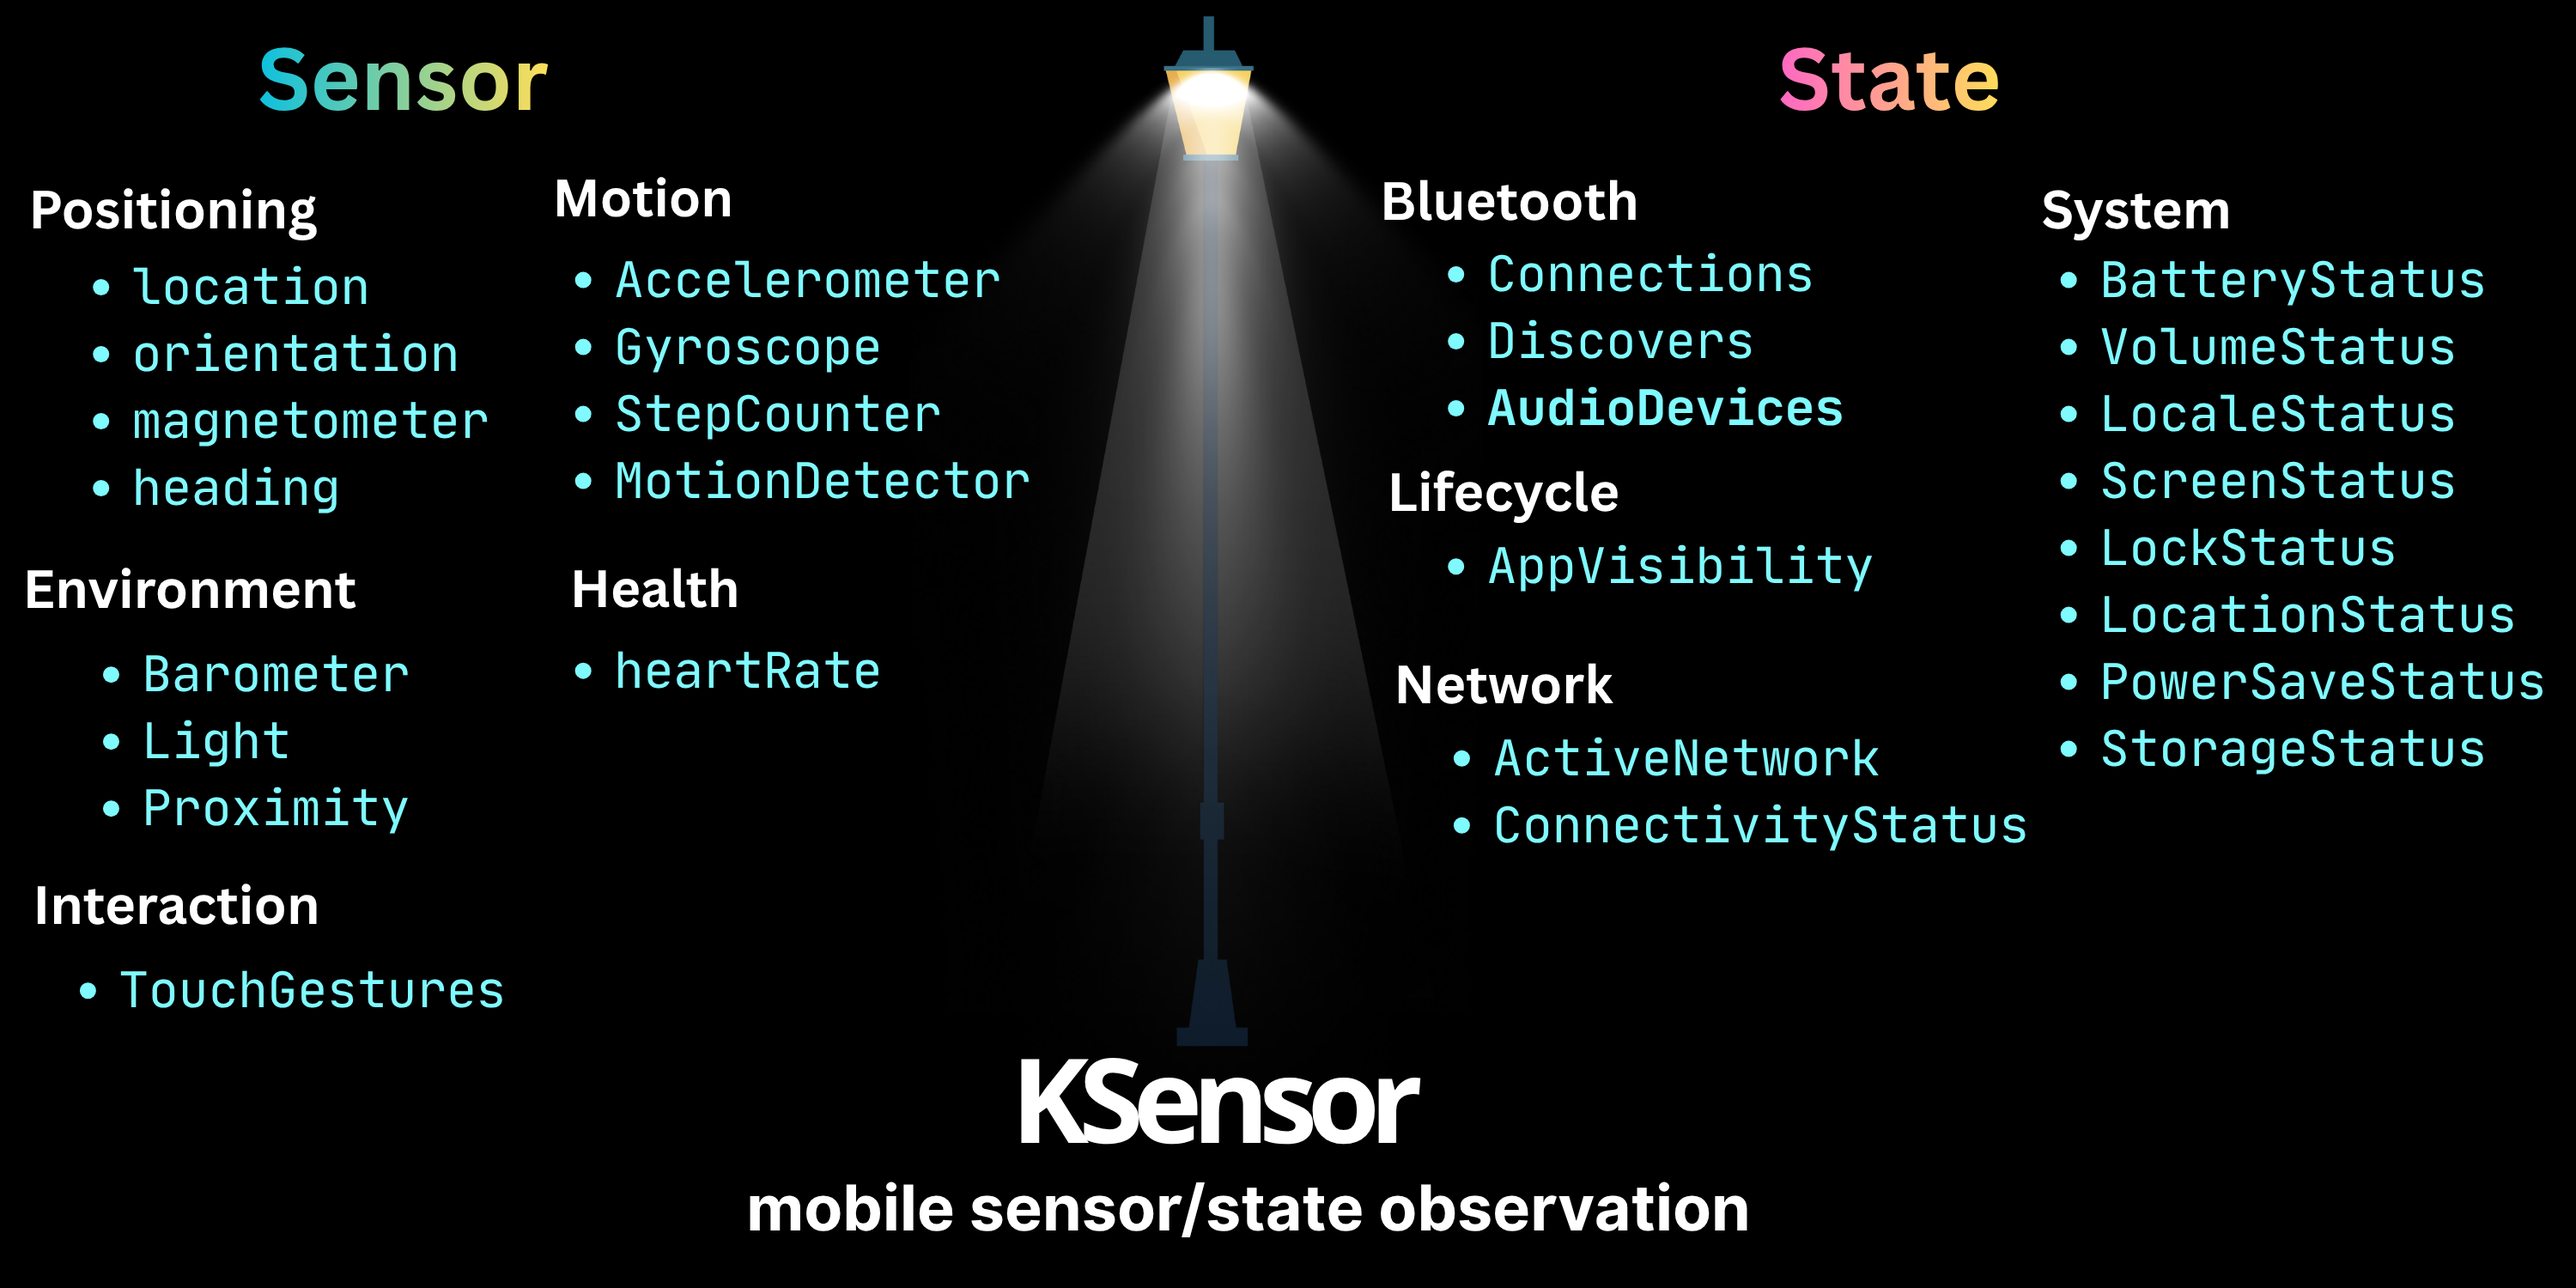
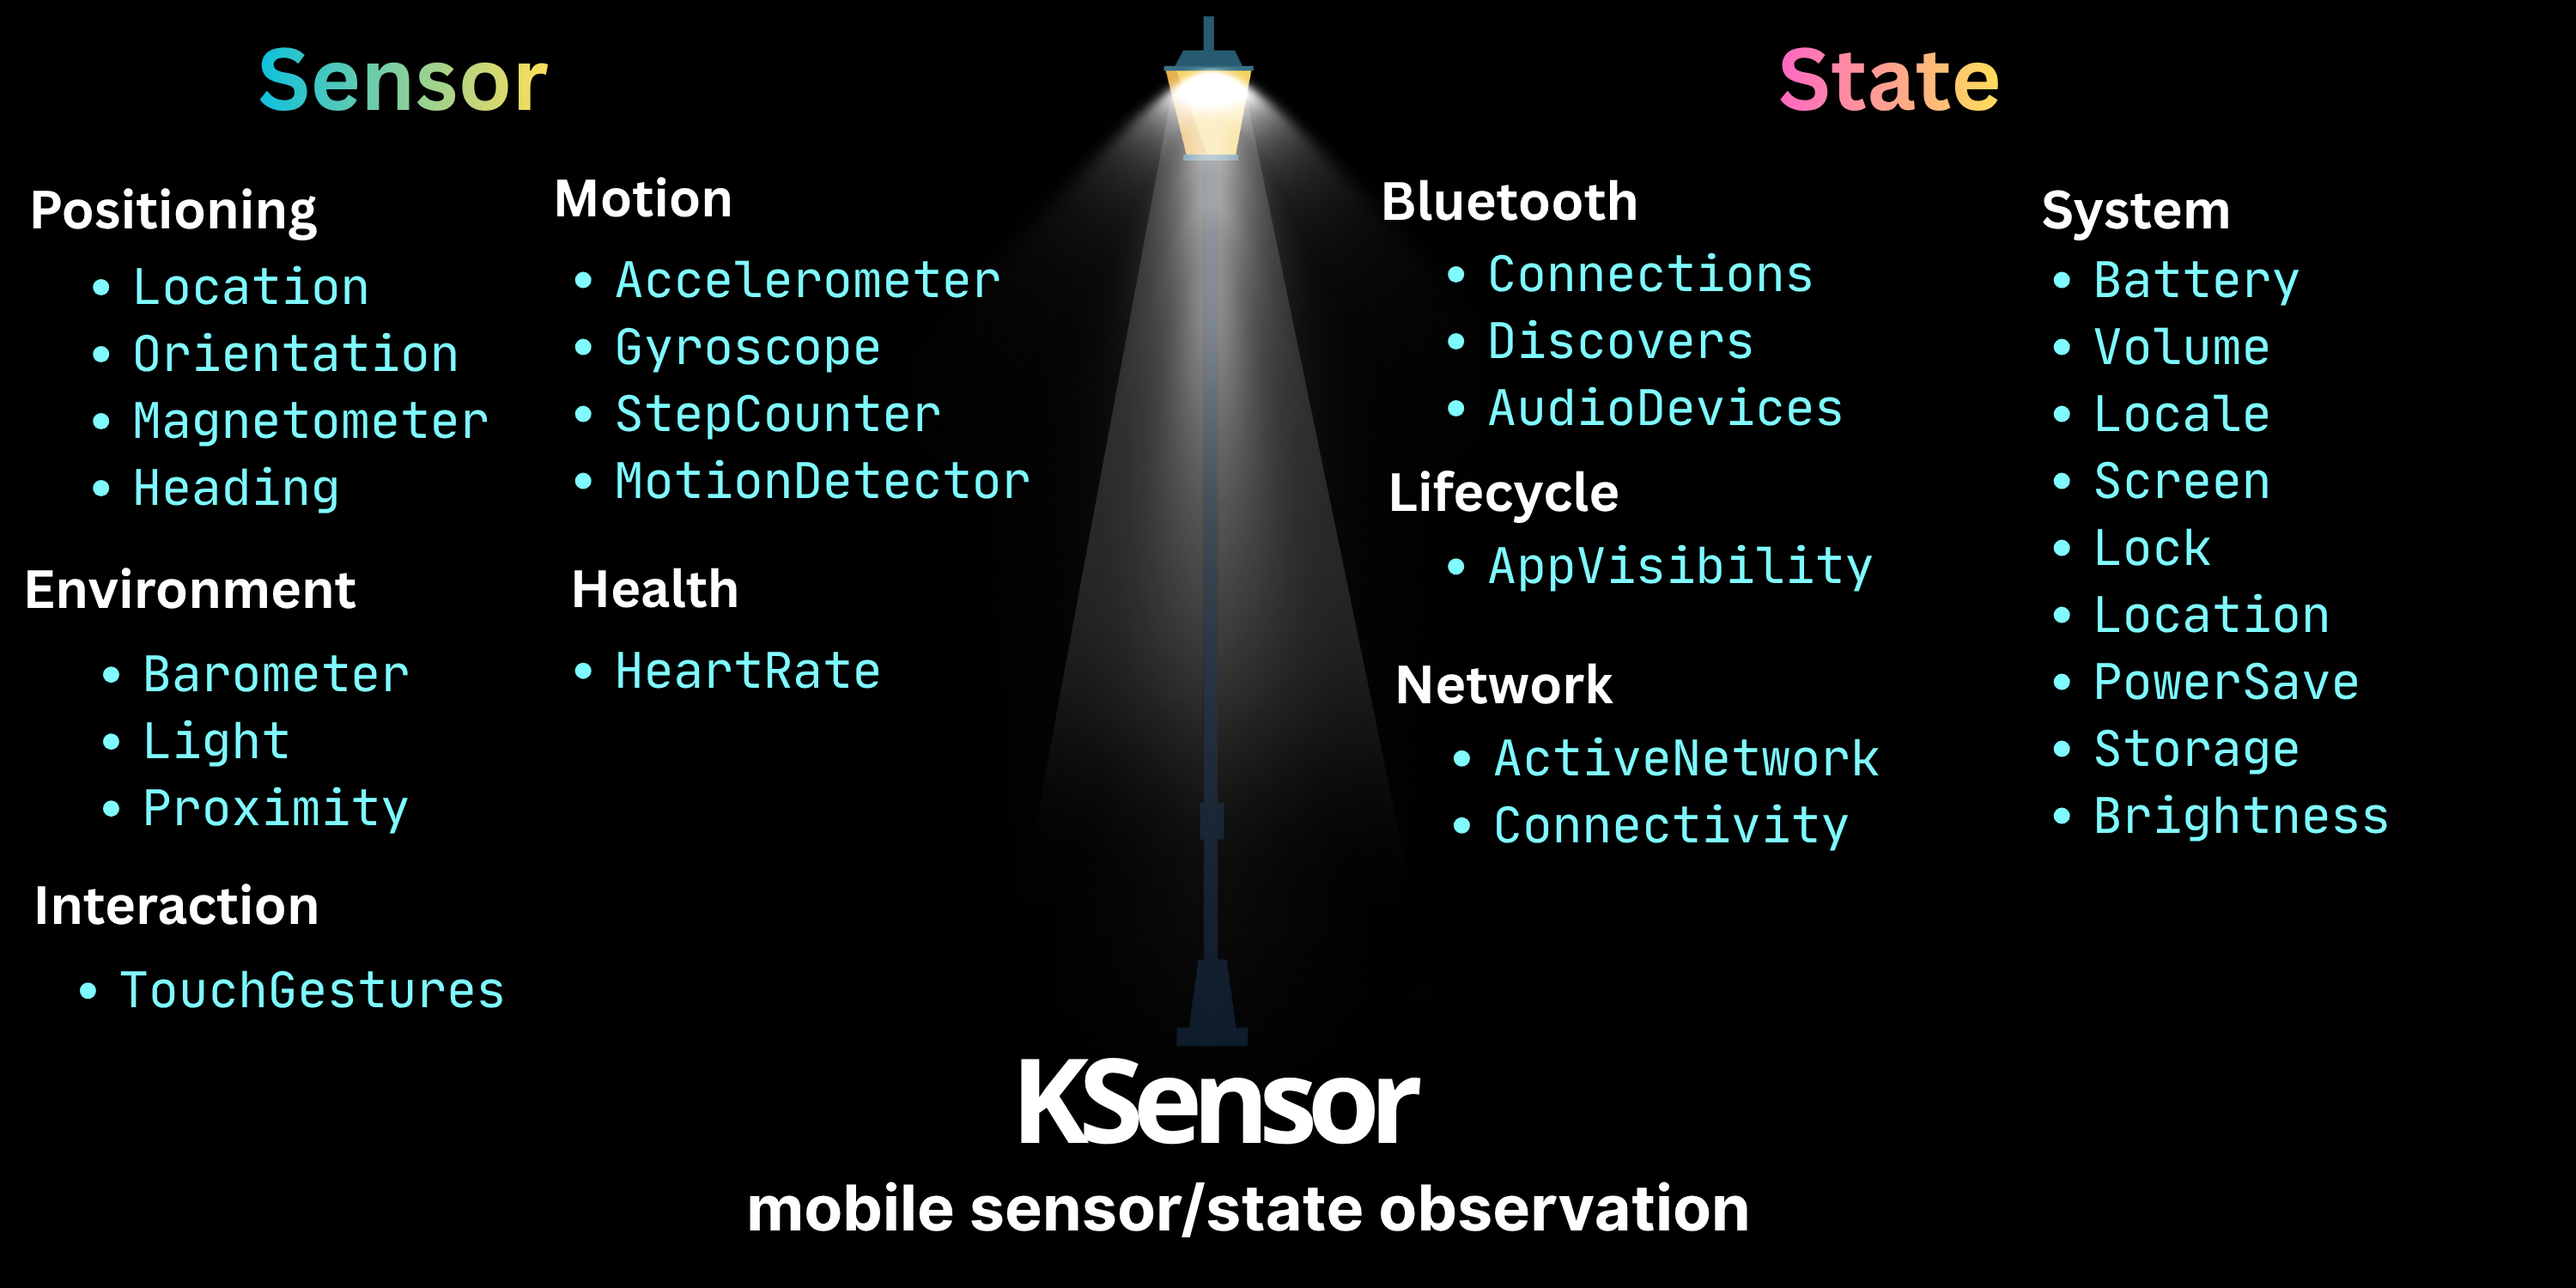
Update doc

diff --git a/doc/src/commonMain/kotlin/com/ksensor/doc/App.kt b/doc/src/commonMain/kotlin/com/ksensor/doc/App.kt
@@ -107,6 +107,7 @@ fun Sidebar(onPageSelected: (DocPage) -> Unit) {
                 SidebarItem("Battery") { onPageSelected(DocPage.Plugin("States", "Battery", "Monitors battery level and state.", "Level, IsCharging", "KSensor.get<SystemPlugin>(PluginId.SYSTEM)?.battery()?.observe()?.collect { status -> \n    val level = status.level\n}")) }
                 SidebarItem("Volume") { onPageSelected(DocPage.Plugin("States", "Volume", "Monitors system volume changes.", "Volume Level", "KSensor.get<SystemPlugin>(PluginId.SYSTEM)?.volume()?.observe()?.collect { status -> \n    val volume = status.volume\n}")) }
                 SidebarItem("Screen") { onPageSelected(DocPage.Plugin("States", "Screen", "Monitors screen on/off state.", "IsOn (Boolean)", "KSensor.get<SystemPlugin>(PluginId.SYSTEM)?.screen()?.observe()?.collect { status -> \n    val isOn = status.isOn\n}")) }
+                SidebarItem("Brightness") { onPageSelected(DocPage.Plugin("States", "Brightness", "Monitors screen brightness level changes.", "Brightness Level (0-100)", "KSensor.get<SystemPlugin>(PluginId.SYSTEM)?.brightness()?.observe()?.collect { status -> \n    val level = status.screenBrightness\n}")) }
                 SidebarItem("Storage") { onPageSelected(DocPage.Plugin("States", "Storage", "Monitors device storage capacity and usage.", "Total, Used, Free (Long)", "KSensor.get<SystemPlugin>(PluginId.SYSTEM)?.storage()?.observe()?.collect { response -> \n    val freeSpace = response.data.freeBytes\n}")) }
             }
             SidebarSubSection("Lifecycle") {

diff --git a/sample/src/commonMain/kotlin/com/ksensor/sample/App.kt b/sample/src/commonMain/kotlin/com/ksensor/sample/App.kt
@@ -69,8 +69,41 @@ fun App() {
 //                LocationSample()
 //                StorageSample()
 //                HeadingSample()
-                HealthSample()
+                BrightnessSample()
+//                HealthSample()
             }
+        }
+    }
+}
+
+@Composable
+fun BrightnessSample() {
+    val plugin = remember {
+        KSensor.get<SystemPlugin>(PluginId.SYSTEM)
+            ?: createSystemPlugin().also { KSensor.register(it) }
+    }
+
+    val brightnessResponse by plugin.brightness().observe().collectAsState(null)
+    val brightness = brightnessResponse?.data
+
+    Column(modifier = Modifier.padding(16.dp)) {
+        Text("Brightness Status Sample", style = MaterialTheme.typography.h5)
+        Spacer(modifier = Modifier.height(16.dp))
+
+        if (brightness != null) {
+            Text("Screen Brightness: ${brightness.screenBrightness}%")
+
+            Spacer(modifier = Modifier.height(8.dp))
+
+            LinearProgressIndicator(
+                progress = brightness.screenBrightness.toFloat() / 100f,
+                modifier = Modifier.fillMaxWidth().height(8.dp)
+            )
+            
+            Spacer(modifier = Modifier.height(16.dp))
+            Text("Try changing your system brightness to see it update.", style = MaterialTheme.typography.caption)
+        } else {
+            Text("Loading brightness data...")
         }
     }
 }

diff --git a/README.md b/README.md
@@ -235,6 +235,7 @@ Data Models (Wrapped in `KSensorResponse`):
 - Volume: `VolumeStatus(volumePercentage: Int)`
 - Locale: `LocaleStatus(languageCode: String, countryCode: String, fullLocaleString: String, displayName: String, isRTL: Boolean)`
 - Screen: `ScreenStatus(isScreenOn: Boolean)`
+- Brightness: `BrightnessStatus(screenBrightness: Int)`
 - Lock: `LockStatus(isDeviceLocked: Boolean)`
 - Power Save: `PowerSaveStatus(isPowerSaveMode: Boolean)`
 - Storage: `StorageStatus(totalBytes: Long, usedBytes: Long, freeBytes: Long)`

diff --git a/SKILL/SKILL.md b/SKILL/SKILL.md
@@ -108,6 +108,7 @@ Vital signs and biological data.
 - **Volume**: System output volume percentage.
 - **Locale**: Language, country, and RTL detection.
 - **Screen**: Screen on/off state.
+- **Brightness**: Screen brightness percentage.
 - **Lock**: Device lock status.
 - **Power Save**: Battery saver mode status.
 - **Storage**: Total and available disk space.
